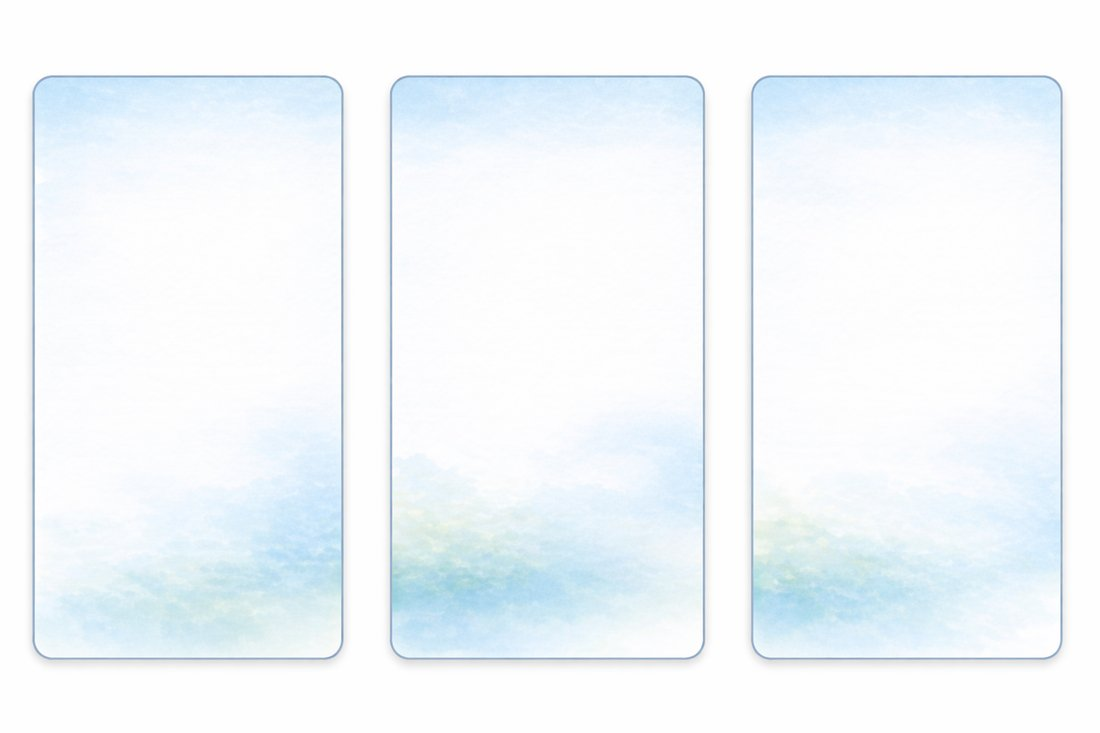
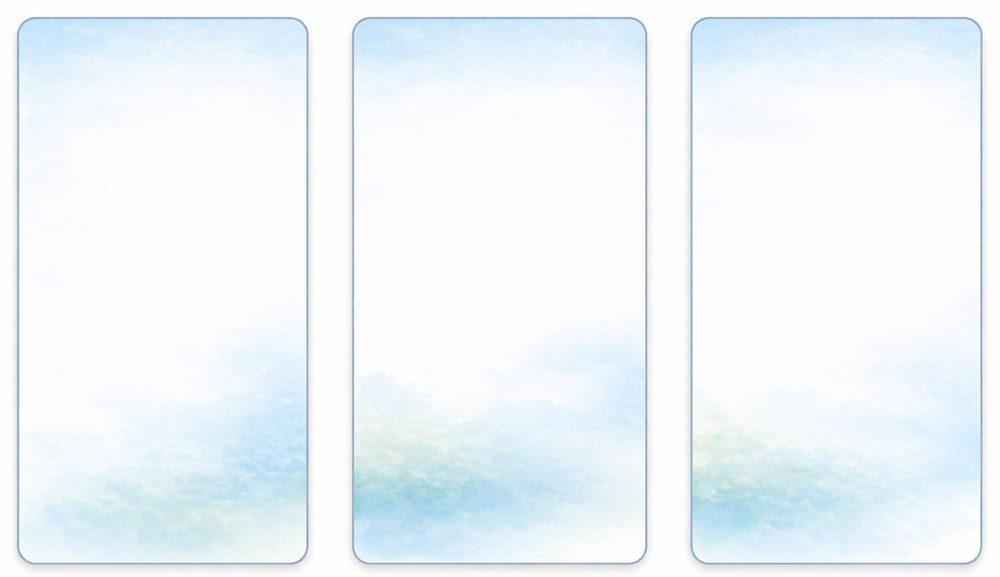
Add files via upload

diff --git a/index.html b/index.html
@@ -20,17 +20,15 @@
     "@context": "https://schema.org",
     "@type": "ProfessionalService",
     "name": "Berater-Kasten",
-    "description": "Praxisnahe Unternehmensberatung für produzierende kleine und mittelständische Unternehmen. Spezialisiert auf Prozessoptimierung, Betriebsorganisation und Shopfloor-Management.",
+    "description": "Praxisnahe Unternehmensberatung für produzierende kleine und mittelständische Unternehmen.",
     "url": "https://www.berater-kasten.de",
     "email": "[email redacted]",
-    "areaServed": "DE",
-    "knowsAbout": ["Prozessoptimierung","Betriebsorganisation","Shopfloor Management","BAFA Förderung","KMU Beratung","Unternehmensorganisation"]
+    "areaServed": "DE"
   }
   </script>
 </head>
 <body>
 
-<!-- HEADER -->
 <header class="site-header">
   <div class="header-inner">
     <a href="index.html">
@@ -56,7 +54,7 @@
       <span class="eyebrow anim">Praxisnahe Beratung für produzierende KMU</span>
       <h1 class="anim anim-delay-1">Ihr Berater –<br><em>Ihr KASTEN.</em></h1>
       <p class="lead anim anim-delay-2">
-        Der KASTEN steht für Ordnung, Klarheit und Verlässlichkeit. Für Systeme, in denen Prozesse, Rollen und Verantwortung ihren festen Platz haben – nicht im Kopf einzelner, sondern sichtbar, verständlich und nutzbar für alle.
+        Der KASTEN steht für Ordnung, Klarheit und Verlässlichkeit. Für Systeme, in denen Prozesse, Rollen und Verantwortung ihren festen Platz haben – sichtbar, verständlich und nutzbar für alle.
       </p>
       <div class="hero-cta anim anim-delay-3">
         <a href="kontakt.html" class="btn-primary">Unverbindlich Kontakt aufnehmen</a>
@@ -65,14 +63,14 @@
     </div>
     <div class="hero-image anim anim-delay-4">
       <img src="images/hero_team.jpg"
-           alt="Das Berater-Kasten Team: Lothar Kahlert, Freya Stradtmann Kembel und Pascal Engelbrecht"
-           width="560" height="373">
+           alt="Das Berater-Kasten Team: Lothar Kahlert (KA), Freya Stradtmann Kembel (ST) und Pascal Engelbrecht (EN)"
+           width="1000" height="577">
     </div>
   </div>
 </section>
 
 <!-- TRUST STRIP -->
-<div class="trust-strip" role="complementary" aria-label="Vertrauensmerkmale">
+<div class="trust-strip" role="complementary">
   <div class="trust-inner">
     <div class="trust-item"><strong>BAFA-gelistete Berater</strong>Staatlich anerkannte Förderfähigkeit</div>
     <div class="trust-item"><strong>Shopfloor statt Schreibtisch</strong>Beratung direkt vor Ort</div>
@@ -88,17 +86,13 @@
       <div class="col-image anim-up">
         <img src="images/kopf_kasten.jpg"
              alt="Illustration: Wissen aus dem Kopf in einen strukturierten Kasten überführen – Prozesse, Schnittstellen und Verantwortung"
-             width="560" height="373">
+             width="560" height="373" style="width:100%; height:auto; aspect-ratio:560/373; object-fit:cover;">
       </div>
       <div class="col-text anim-up">
         <span class="eyebrow">Warum gibt es den Berater-Kasten?</span>
         <h2 id="was-heading">Wissen raus aus dem Kopf – rein in den KASTEN</h2>
-        <p>
-          In vielen produzierenden Betrieben steckt das entscheidende Wissen über Abläufe, Zuständigkeiten und Entscheidungslogiken im Kopf einzelner Schlüsselpersonen. Das macht Unternehmen abhängig, langsam und anfällig.
-        </p>
-        <p>
-          Wir schaffen Strukturen, die Prozesse, Rollen und Verantwortung sichtbar machen – damit Ihr gesamtes Team davon profitiert. Nicht als PowerPoint-Konzept, sondern als gelebte Ordnung im täglichen Betrieb.
-        </p>
+        <p>In vielen produzierenden Betrieben steckt das entscheidende Wissen über Abläufe, Zuständigkeiten und Entscheidungslogiken im Kopf einzelner Schlüsselpersonen. Das macht Unternehmen abhängig, langsam und anfällig.</p>
+        <p>Wir schaffen Strukturen, die Prozesse, Rollen und Verantwortung sichtbar machen – als gelebte Ordnung im täglichen Betrieb.</p>
         <ul>
           <li>Klare Prozesse statt impliziten Wissens</li>
           <li>Verantwortlichkeiten, die jeder kennt</li>
@@ -114,100 +108,53 @@
 <section class="problem-section" aria-labelledby="problem-heading">
   <div class="container">
     <span class="eyebrow section-title-center" style="display:block;text-align:center">Erkenne ich das?</span>
-    <h2 class="section-title section-title-center" id="problem-heading">Wobei können wir Sie konkret unterstützen?</h2>
+    <h2 class="section-title section-title-center" id="problem-heading">Wobei können wir Sie unterstützen?</h2>
     <p class="section-subtitle section-subtitle-center">
-      Wenn Ihnen eines dieser Probleme bekannt vorkommt, sind Sie hier richtig. Wir helfen kleinen und mittelständischen Produktionsbetrieben, genau diese Herausforderungen dauerhaft zu lösen.
+      Wenn Ihnen eines dieser Probleme bekannt vorkommt, sind Sie hier richtig.
     </p>
     <div class="problem-grid">
-      <div class="problem-tile anim-up">
-        <img src="images/btn_systeme.png" alt="Systeme liefern keinen Mehrwert" width="560" height="143">
-      </div>
-      <div class="problem-tile anim-up">
-        <img src="images/btn_zahlen.png" alt="Zahlen fehlen oder sind nicht verständlich" width="560" height="143">
-      </div>
-      <div class="problem-tile anim-up">
-        <img src="images/btn_unklarheit.png" alt="Unklarheit in Schicht und Abläufen" width="560" height="143">
-      </div>
-      <div class="problem-tile anim-up">
-        <img src="images/btn_strukturen.png" alt="Strukturen wachsen nicht mit" width="560" height="143">
-      </div>
-      <div class="problem-tile anim-up">
-        <img src="images/btn_einstieg.png" alt="Einstieg soll kalkulierbar sein" width="560" height="143">
-      </div>
-      <div class="problem-tile anim-up">
-        <img src="images/btn_wissen.png" alt="Wissen aufbauen, anwenden und verankern" width="560" height="148">
+      <div class="problem-tile anim-up"><img src="images/btn_systeme.png" alt="Systeme liefern keinen Mehrwert" width="560" height="143"></div>
+      <div class="problem-tile anim-up"><img src="images/btn_zahlen.png" alt="Zahlen fehlen oder sind nicht verständlich" width="560" height="143"></div>
+      <div class="problem-tile anim-up"><img src="images/btn_unklarheit.png" alt="Unklarheit in Schicht und Abläufen" width="560" height="143"></div>
+      <div class="problem-tile anim-up"><img src="images/btn_strukturen.png" alt="Strukturen wachsen nicht mit" width="560" height="143"></div>
+      <div class="problem-tile anim-up"><img src="images/btn_einstieg.png" alt="Einstieg soll kalkulierbar sein" width="560" height="143"></div>
+      <div class="problem-tile anim-up"><img src="images/btn_wissen.png" alt="Wissen aufbauen, anwenden und verankern" width="560" height="148"></div>
+    </div>
+    <div style="text-align:center; margin-top:36px;">
+      <a href="leistungen.html" class="btn-primary">Zu unseren Leistungen →</a>
+    </div>
+  </div>
+</section>
+
+<!-- BAFA – kompakt -->
+<section style="background:var(--warmgrau); padding:56px 0;" aria-labelledby="bafa-heading">
+  <div class="container">
+    <div style="display:flex; align-items:center; gap:48px; flex-wrap:wrap;">
+      <img src="images/bafa.jpg" alt="BAFA Förderung" width="280" height="180"
+           style="border-radius:14px; box-shadow:var(--shadow); flex-shrink:0; width:280px; height:auto; object-fit:cover;">
+      <div style="flex:1; min-width:260px;">
+        <span class="eyebrow">Staatliche Unterstützung</span>
+        <h2 id="bafa-heading" style="font-size:26px; margin-bottom:12px;">Bis zu 80&thinsp;% Ihrer Beratungskosten werden gefördert</h2>
+        <p style="color:var(--textlight); margin-bottom:20px;">Als BAFA-gelistete Berater begleiten wir Sie von der Förderfähigkeitsprüfung bis zur Abrechnung.</p>
+        <a href="foerderung.html" class="btn-secondary">Mehr zur BAFA-Förderung →</a>
       </div>
     </div>
   </div>
 </section>
 
-<!-- DREI PERSPEKTIVEN -->
-<section aria-labelledby="perspektiven-heading">
+<!-- CTA -->
+<section style="background:var(--dunkelblau); padding:64px 0; text-align:center;">
   <div class="container">
-    <div class="two-col reverse">
-      <div class="col-text anim-up">
-        <span class="eyebrow">Das Besondere am Berater-Kasten</span>
-        <h2 id="perspektiven-heading">Drei Perspektiven – Ein gemeinsames System</h2>
-        <p>
-          Was uns von anderen Beratungsunternehmen unterscheidet: Wir bringen drei unterschiedliche Blickwinkel auf Ihr Unternehmen – gleichzeitig und aufeinander abgestimmt.
-        </p>
-        <ul>
-          <li><strong>KA – Lothar Kahlert:</strong> Führungs- und Produktionserfahrung</li>
-          <li><strong>ST – Freya Stradtmann Kembel:</strong> Daten- und kennzahlenbasierte Analyse</li>
-          <li><strong>EN – Pascal Engelbrecht:</strong> Technische Prozesse mit Controlling-Logik</li>
-        </ul>
-        <p>
-          Das Ergebnis: Keine einseitigen Empfehlungen, sondern Lösungen, die im Alltag funktionieren – für Führung, Mitarbeitende und Zahlen gleichermaßen.
-        </p>
-        <a href="team.html" class="btn-secondary">Das Team kennenlernen →</a>
-      </div>
-      <div class="col-image anim-up">
-        <img src="images/hero_team.jpg"
-             alt="Das Berater-Kasten Team – Lothar Kahlert KA, Freya Stradtmann Kembel ST, Pascal Engelbrecht EN"
-             width="560" height="373">
-      </div>
-    </div>
-  </div>
-</section>
-
-<!-- BAFA FÖRDERUNG -->
-<section class="bafa-section" aria-labelledby="bafa-heading">
-  <div class="container">
-    <div class="bafa-card anim-up">
-      <div class="bafa-text">
-        <span class="eyebrow">Staatliche Unterstützung nutzen</span>
-        <h2 id="bafa-heading">Bis zu 80&thinsp;% Ihrer Beratungskosten werden gefördert</h2>
-        <p>
-          Als BAFA-gelistete Berater unterstützen wir kleine und mittelständische Unternehmen dabei, staatliche Förderprogramme optimal zu nutzen. Wir begleiten Sie von der Prüfung der Förderfähigkeit bis zur Abrechnung – damit Sie sich auf das Wesentliche konzentrieren können.
-        </p>
-        <p>
-          <strong>Für wen?</strong> Betriebe mit bis zu 499 Mitarbeitern und weniger als 100&thinsp;Mio.&thinsp;€ Jahresumsatz können in der Regel gefördert werden.
-        </p>
-        <a href="foerderung.html" class="btn-primary">Mehr zur BAFA-Förderung →</a>
-      </div>
-      <div class="bafa-image">
-        <img src="images/bafa.jpg"
-             alt="BAFA Förderung – staatliche Unterstützung für Unternehmensberatung"
-             width="320" height="213">
-      </div>
-    </div>
-  </div>
-</section>
-
-<!-- CTA BANNER -->
-<section style="background: var(--dunkelblau); padding: 72px 0; text-align: center;">
-  <div class="container">
-    <h2 style="color:white; font-size:32px; margin-bottom:16px;">Bereit für mehr Ordnung in Ihrem Unternehmen?</h2>
-    <p style="color:rgba(255,255,255,0.75); font-size:17px; margin-bottom:32px; max-width:540px; margin-left:auto; margin-right:auto;">
+    <h2 style="color:white; font-size:30px; margin-bottom:14px;">Bereit für mehr Ordnung?</h2>
+    <p style="color:rgba(255,255,255,0.75); font-size:17px; margin-bottom:28px; max-width:480px; margin-left:auto; margin-right:auto;">
       Ein erstes Gespräch kostet nichts – aber Nichtstun kostet Zeit, Geld und Nerven.
     </p>
-    <a href="kontakt.html" class="btn-primary" style="background:var(--gelb); color:var(--dunkelblau); font-size:16px; padding:16px 40px;">
+    <a href="kontakt.html" class="btn-primary" style="background:var(--gelb); color:var(--dunkelblau); font-size:16px; padding:15px 36px;">
       Jetzt unverbindlich Kontakt aufnehmen
     </a>
   </div>
 </section>
 
-<!-- FOOTER -->
 <footer class="site-footer" role="contentinfo">
   <div class="footer-inner">
     <div class="footer-top">
@@ -231,11 +178,9 @@
 </footer>
 
 <script>
-// Intersection Observer für Animationen
 const observer = new IntersectionObserver(entries => {
-  entries.forEach(e => { if (e.isIntersecting) { e.target.classList.add('visible'); } });
+  entries.forEach(e => { if (e.isIntersecting) e.target.classList.add('visible'); });
 }, { threshold: 0.12 });
-
 document.querySelectorAll('.anim, .anim-up').forEach(el => observer.observe(el));
 </script>
 </body>

diff --git a/foerderung.html b/foerderung.html
@@ -67,19 +67,19 @@
     <p class="section-subtitle section-subtitle-center">
       Die BAFA-Förderung richtet sich an kleine und mittelständische Unternehmen. Die wichtigsten Kriterien im Überblick:
     </p>
-    <div style="display:grid; grid-template-columns: repeat(3,1fr); gap:24px; margin-top:0;">
-      <div style="background:white; border-radius:14px; padding:28px; box-shadow:var(--shadow); text-align:center;">
-        <div style="font-size:36px; margin-bottom:12px;">👥</div>
+    <div style="display:flex; flex-wrap:wrap; gap:24px; margin-top:0; justify-content:center;">
+      <div style="background:white; border-radius:14px; padding:28px; box-shadow:var(--shadow); text-align:center; flex:1; min-width:200px; max-width:320px;">
+        <div style="font-size:36px; margin-bottom:12px;"><svg width="32" height="32" viewBox="0 0 32 32" fill="none"><circle cx="11" cy="11" r="4" stroke="#1D6996" stroke-width="1.5"/><circle cx="21" cy="11" r="4" stroke="#A9D6E5" stroke-width="1.5"/><path d="M2 26c0-4 4-7 9-7s9 3 9 7" stroke="#1D6996" stroke-width="1.5" stroke-linecap="round"/><path d="M22 19c3 0 8 2 8 7" stroke="#A9D6E5" stroke-width="1.5" stroke-linecap="round"/></svg></div>
         <h3 style="font-size:17px; margin-bottom:8px;">Mitarbeiterzahl</h3>
         <p style="color:var(--textlight); font-size:14px;">Weniger als 500 Beschäftigte</p>
       </div>
-      <div style="background:white; border-radius:14px; padding:28px; box-shadow:var(--shadow); text-align:center;">
-        <div style="font-size:36px; margin-bottom:12px;">💶</div>
+      <div style="background:white; border-radius:14px; padding:28px; box-shadow:var(--shadow); text-align:center; flex:1; min-width:200px; max-width:320px;">
+        <div style="font-size:36px; margin-bottom:12px;"><svg width="32" height="32" viewBox="0 0 32 32" fill="none"><circle cx="16" cy="16" r="12" stroke="#1D6996" stroke-width="1.5"/><path d="M20 11h-5a5 5 0 0 0 0 10h5" stroke="#1D6996" stroke-width="1.5" stroke-linecap="round"/><path d="M10 14h8M10 18h8" stroke="#A9D6E5" stroke-width="2" stroke-linecap="round"/></svg></div>
         <h3 style="font-size:17px; margin-bottom:8px;">Jahresumsatz</h3>
         <p style="color:var(--textlight); font-size:14px;">Unter 100 Mio.&thinsp;€ Jahresumsatz</p>
       </div>
-      <div style="background:white; border-radius:14px; padding:28px; box-shadow:var(--shadow); text-align:center;">
-        <div style="font-size:36px; margin-bottom:12px;">📍</div>
+      <div style="background:white; border-radius:14px; padding:28px; box-shadow:var(--shadow); text-align:center; flex:1; min-width:200px; max-width:320px;">
+        <div style="font-size:36px; margin-bottom:12px;"><svg width="32" height="32" viewBox="0 0 32 32" fill="none"><path d="M16 3C11 3 7 7 7 12c0 7 9 17 9 17s9-10 9-17c0-5-4-9-9-9z" fill="#A9D6E5" stroke="#1D6996" stroke-width="1.5"/><circle cx="16" cy="12" r="3" fill="#1D6996"/></svg></div>
         <h3 style="font-size:17px; margin-bottom:8px;">Unternehmenssitz</h3>
         <p style="color:var(--textlight); font-size:14px;">Betriebsstätte in Deutschland</p>
       </div>

diff --git a/leistungen.html b/leistungen.html
@@ -96,32 +96,34 @@
     </p>
     <div class="leistungen-grid">
       <div class="leistung-card anim-up">
-        <div class="leistung-icon">⚙️</div>
+        <div class="leistung-icon">
+          <svg width="28" height="28" viewBox="0 0 28 28" fill="none"><circle cx="14" cy="14" r="5" stroke="#1D6996" stroke-width="2"/><path d="M14 3v3M14 22v3M3 14h3M22 14h3M6.22 6.22l2.12 2.12M19.66 19.66l2.12 2.12M6.22 21.78l2.12-2.12M19.66 8.34l2.12-2.12" stroke="#1D6996" stroke-width="2" stroke-linecap="round"/></svg>
+        </div>
         <h3>Prozessoptimierung</h3>
         <p>Wir analysieren Ihre Abläufe direkt vor Ort, identifizieren Engpässe und entwickeln gemeinsam mit Ihnen umsetzbare Lösungen – keine theoretischen Konzepte, sondern gelebte Praxis.</p>
       </div>
       <div class="leistung-card anim-up">
-        <div class="leistung-icon">📊</div>
+        <div class="leistung-icon"><svg width="28" height="28" viewBox="0 0 28 28" fill="none"><rect x="3" y="14" width="5" height="11" rx="1" fill="#A9D6E5" stroke="#1D6996" stroke-width="1.5"/><rect x="11" y="9" width="5" height="16" rx="1" fill="#A9D6E5" stroke="#1D6996" stroke-width="1.5"/><rect x="19" y="4" width="5" height="21" rx="1" fill="#A9D6E5" stroke="#1D6996" stroke-width="1.5"/></svg></div>
         <h3>Betriebsorganisation &amp; Controlling</h3>
         <p>Zahlen, die fehlen oder nicht verständlich sind, verhindern gute Entscheidungen. Wir helfen Ihnen, aussagekräftige Kennzahlen zu definieren, zu erfassen und zu nutzen.</p>
       </div>
       <div class="leistung-card anim-up">
-        <div class="leistung-icon">🏗️</div>
+        <div class="leistung-icon"><svg width="28" height="28" viewBox="0 0 28 28" fill="none"><rect x="3" y="20" width="22" height="3" rx="1.5" fill="#A9D6E5" stroke="#1D6996" stroke-width="1.5"/><rect x="6" y="9" width="3" height="11" rx="1" fill="#A9D6E5" stroke="#1D6996" stroke-width="1.5"/><rect x="19" y="9" width="3" height="11" rx="1" fill="#A9D6E5" stroke="#1D6996" stroke-width="1.5"/><rect x="6" y="6" width="16" height="3" rx="1.5" fill="#1D6996"/><path d="M14 9v11" stroke="#1D6996" stroke-width="1.5" stroke-linecap="round"/></svg></div>
         <h3>Strukturentwicklung</h3>
         <p>Strukturen, die beim Start funktionierten, passen nicht mehr zum gewachsenen Unternehmen. Wir entwickeln Verantwortlichkeiten, Rollen und Schnittstellen, die skalieren.</p>
       </div>
       <div class="leistung-card anim-up">
-        <div class="leistung-icon">🎯</div>
+        <div class="leistung-icon"><svg width="28" height="28" viewBox="0 0 28 28" fill="none"><circle cx="14" cy="14" r="11" stroke="#A9D6E5" stroke-width="1.5"/><circle cx="14" cy="14" r="7" stroke="#1D6996" stroke-width="1.5"/><circle cx="14" cy="14" r="3" fill="#1D6996"/><path d="M14 3v4M14 21v4M3 14h4M21 14h4" stroke="#1D6996" stroke-width="1.5" stroke-linecap="round"/></svg></div>
         <h3>Shopfloor Management</h3>
         <p>Wir etablieren schlanke, wirksame Führungsroutinen direkt am Shopfloor – tägliche Besprechungen, Visualisierungen und Eskalationspfade, die Ihr Team entlasten.</p>
       </div>
       <div class="leistung-card anim-up">
-        <div class="leistung-icon">🎓</div>
+        <div class="leistung-icon"><svg width="28" height="28" viewBox="0 0 28 28" fill="none"><path d="M14 5L4 11l10 6 10-6-10-6z" fill="#A9D6E5" stroke="#1D6996" stroke-width="1.5" stroke-linejoin="round"/><path d="M8 14v6c0 2 2.5 3.5 6 3.5s6-1.5 6-3.5v-6" stroke="#1D6996" stroke-width="1.5" stroke-linecap="round"/><path d="M24 11v6" stroke="#1D6996" stroke-width="1.5" stroke-linecap="round"/></svg></div>
         <h3>Workshops &amp; Schulungen</h3>
         <p>Praxisnahe Workshops zu Themen wie Power BI, Prozessmanagement und Organisationsentwicklung – für Teams, die Wissen aufbauen, anwenden und verankern wollen.</p>
       </div>
       <div class="leistung-card anim-up">
-        <div class="leistung-icon">🚀</div>
+        <div class="leistung-icon"><svg width="28" height="28" viewBox="0 0 28 28" fill="none"><path d="M14 4c4 0 7 5 7 10s-3 10-7 10-7-5-7-10 3-10 7-10z" fill="#A9D6E5" stroke="#1D6996" stroke-width="1.5"/><path d="M14 4v20" stroke="#1D6996" stroke-width="1.5" stroke-linecap="round"/><circle cx="14" cy="14" r="3" fill="#1D6996"/><path d="M7 14l-4 5M21 14l4 5" stroke="#1D6996" stroke-width="1.5" stroke-linecap="round"/></svg></div>
         <h3>Einstiegsberatung</h3>
         <p>Sie wissen nicht, wo anfangen? Mit unserem kalkulierbaren Einstiegspaket erhalten Sie in kurzer Zeit ein klares Bild Ihrer Situation und konkrete Handlungsempfehlungen.</p>
       </div>

diff --git a/css/style.css b/css/style.css
@@ -320,8 +320,17 @@ section { padding: 80px 0; }
 .two-col .col-image { flex: 1; }
 .two-col .col-image img {
   width: 100%;
+  height: auto;
   border-radius: 16px;
   box-shadow: var(--shadow);
+  object-fit: cover;
+  display: block;
+}
+
+.hero-image img {
+  width: 100%;
+  height: auto;
+  object-fit: contain;
 }
 .two-col .col-text h2 { font-size: 30px; margin-bottom: 16px; }
 .two-col .col-text p { color: var(--textlight); margin-bottom: 16px; }
@@ -541,7 +550,7 @@ section { padding: 80px 0; }
   .hero-text { max-width: 100%; padding-bottom: 0; }
   .hero-text h1 { font-size: 34px; }
   .hero-image { width: 100%; justify-content: center; }
-  .hero-image img { border-radius: 12px 12px 0 0; max-width: 100%; }
+  .hero-image img { border-radius: 12px; max-width: 100%; height: auto; object-fit: contain; }
 
   .trust-inner { flex-direction: column; gap: 0; }
   .trust-item { border-right: none; border-bottom: 1px solid rgba(255,255,255,0.12); }